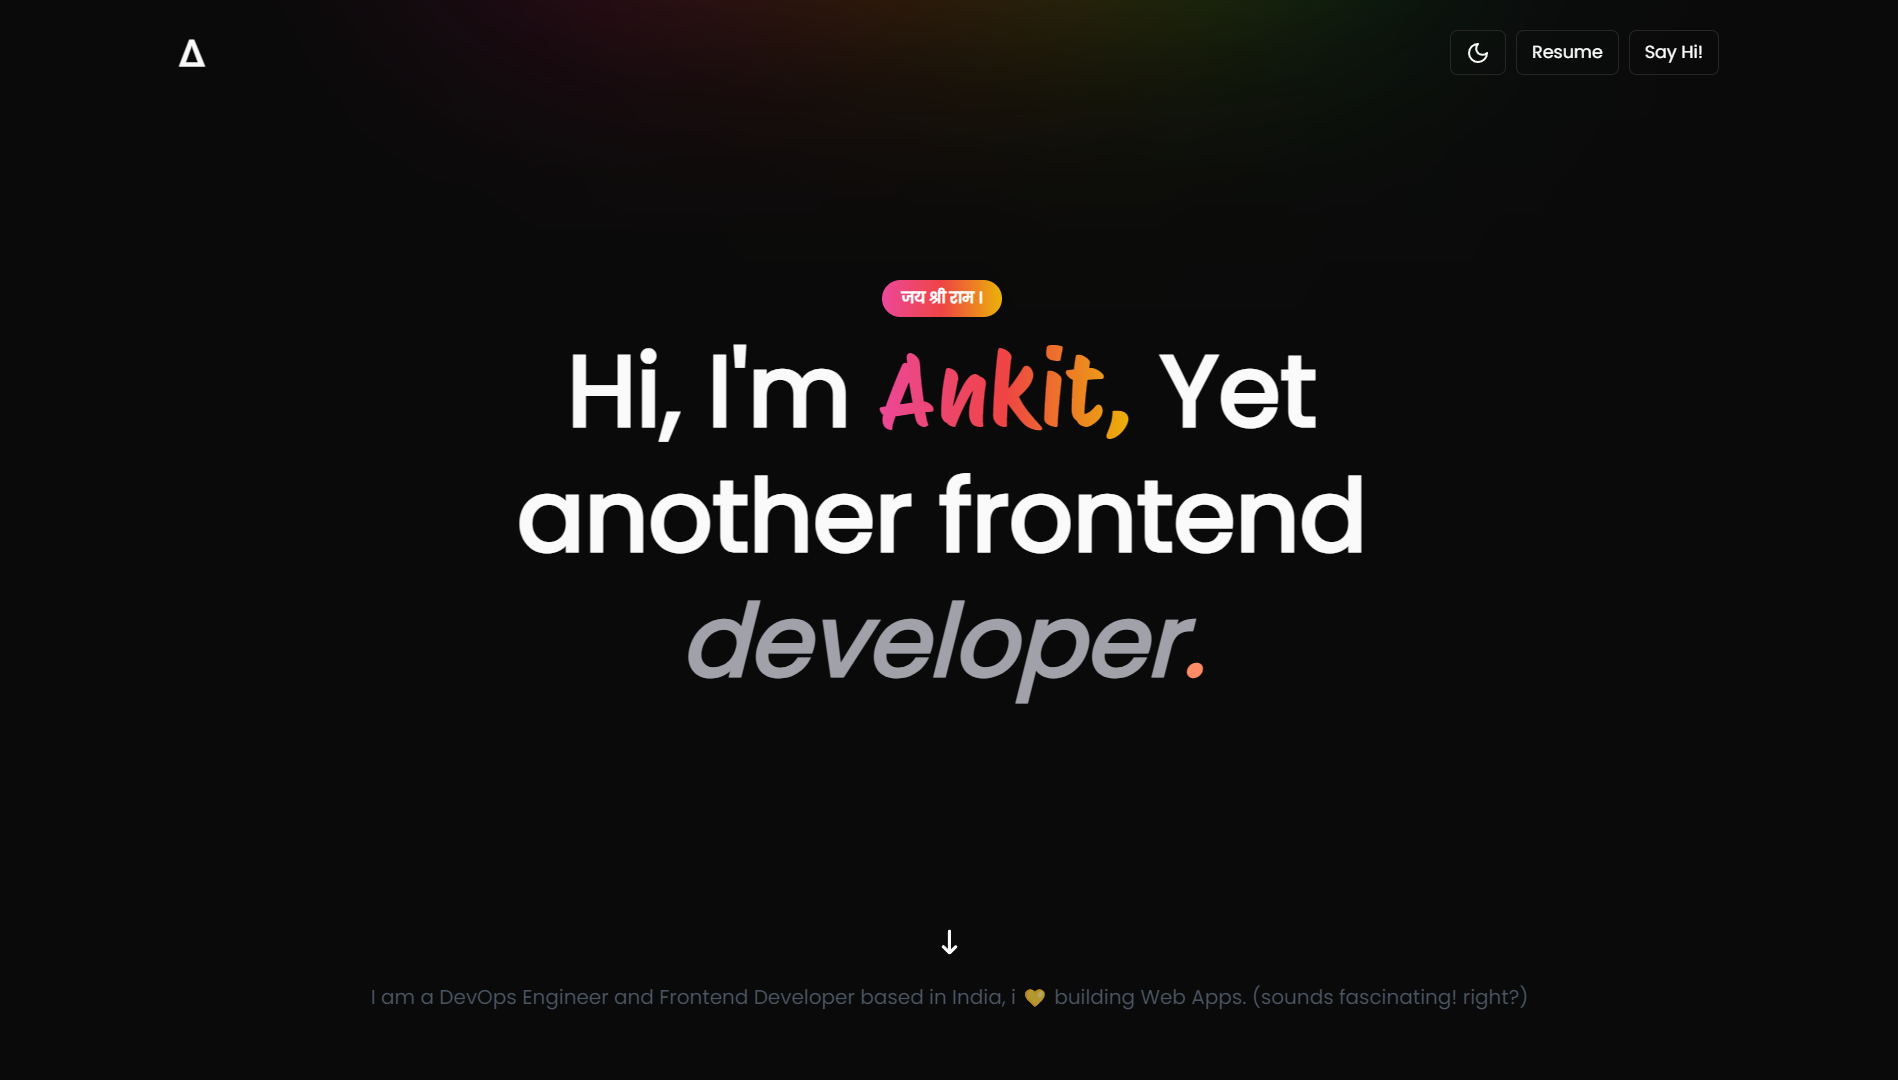
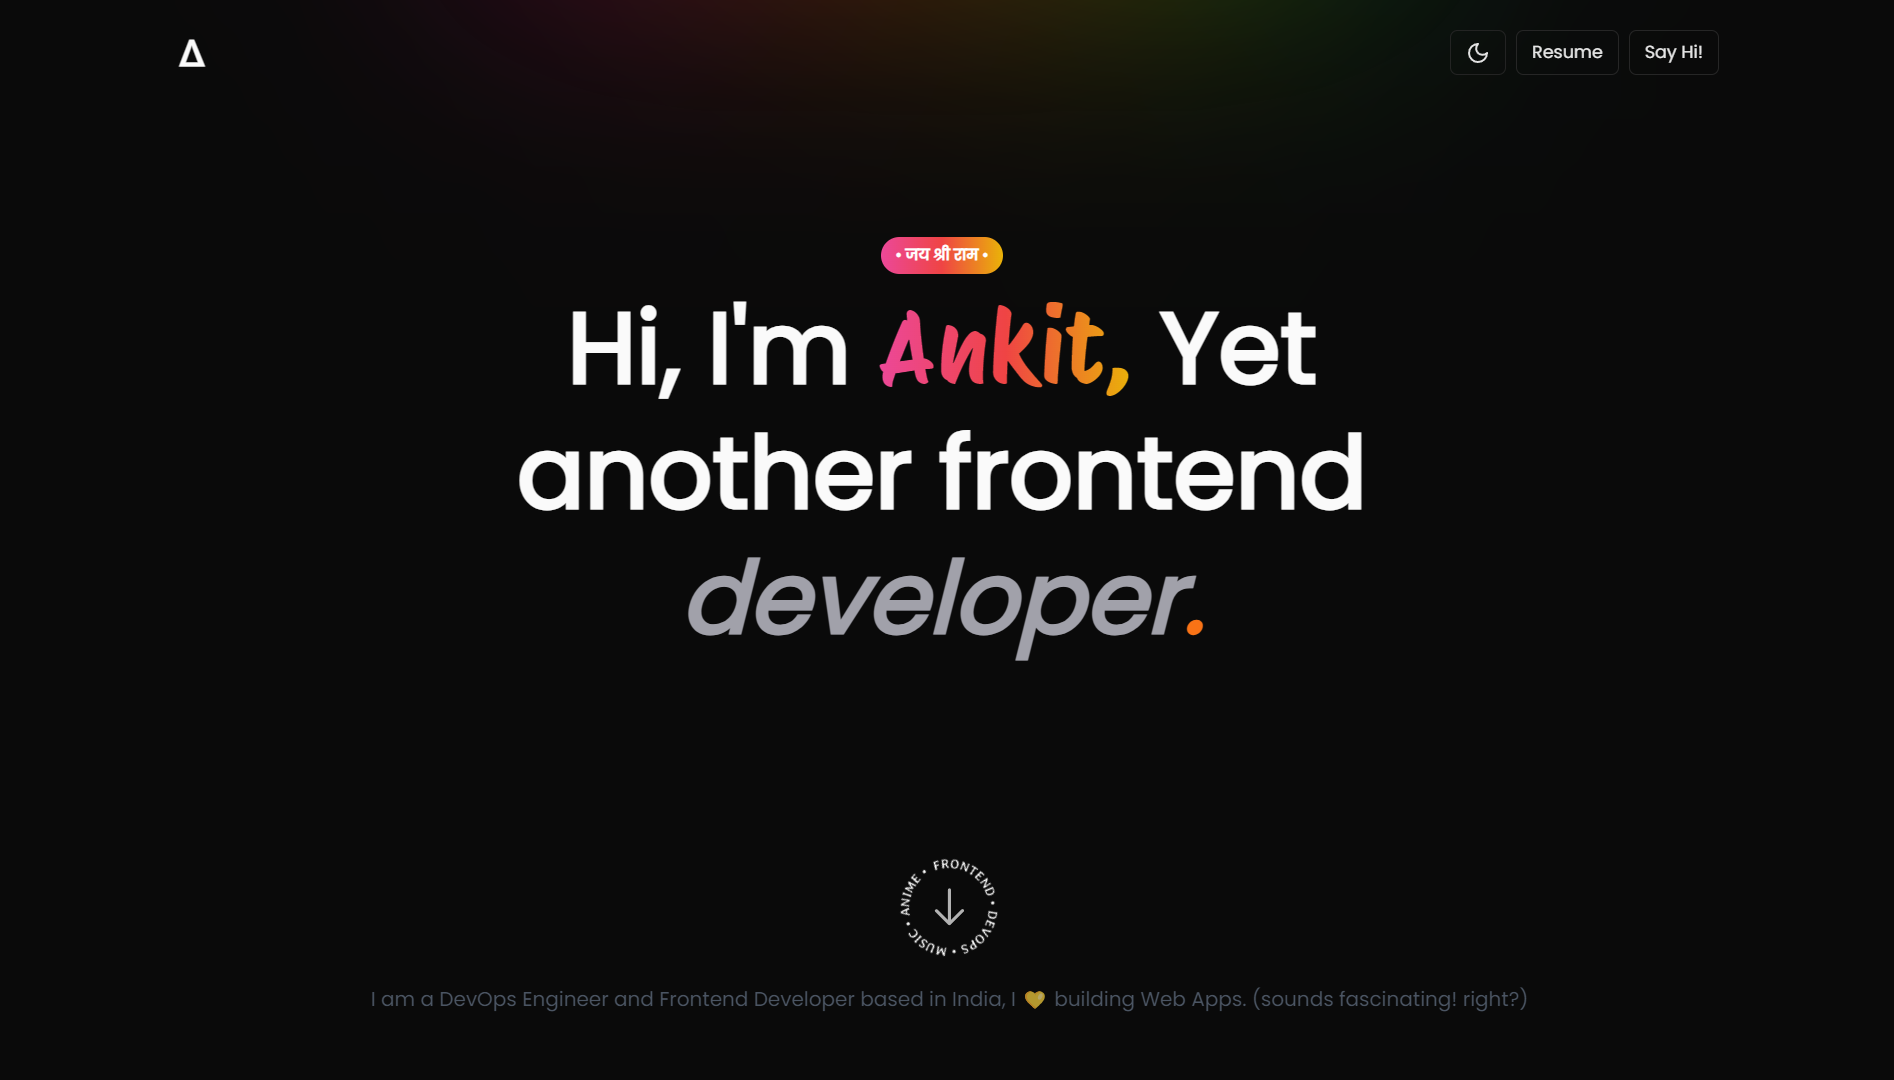
added curved text

diff --git a/app/Hero.tsx b/app/Hero.tsx
@@ -1,11 +1,12 @@
 "use client";
 import { FaArrowDownLong } from "react-icons/fa6";
 import { motion, AnimatePresence } from "framer-motion";
+import CurvedText from "./components/CurvedText";
 
 const Hero = () => {
   return (
     <>
-      <div className="h-auto my-[5rem] md:my-0 md:h-[78vh] pr-3 flex items-center justify-center ">
+      <div className="h-auto my-[5rem] md:my-0 md:h-[70vh] pr-3 flex items-center justify-center ">
         <div className="mx-[5rem] md:mx-[3rem] lg:mx-[12rem] w-full relative flex items-center justify-start sm:justify-center">
           <h1 className="text-5xl font-bold md:text-7xl xl:text-[5rem] text-left sm:text-center leading-tight md:leading-tight ">
             Hi, I&apos;m{" "}
@@ -20,7 +21,7 @@ const Hero = () => {
               className={` text-5xl italic md:text-7xl xl:text-[5rem] mb-3 sm:mb-0 text-center sm:text-left font-extrabold text-zinc-500 dark:text-zinc-400`}
             >
               developer
-              <span className="text-[#ff8c66]">.</span>
+              <span className="text-orange-500">.</span>
             </span>
           </h1>
 
@@ -30,7 +31,7 @@ const Hero = () => {
         </div>
       </div>
       <div className="flex justify-between items-center flex-col">
-        <AnimatePresence>
+        {/* <AnimatePresence>
           <motion.div
             initial={{ y: 0 }}
             animate={{ y: [0, -15, 0] }}
@@ -38,7 +39,9 @@ const Hero = () => {
           >
             <FaArrowDownLong size={20} />
           </motion.div>
-        </AnimatePresence>
+        </AnimatePresence> */}
+
+        <CurvedText />
       </div>
 
       <p className="text-[1rem] text-gray-600 text-center mt-4 ">

diff --git a/app/About.tsx b/app/About.tsx
@@ -2,7 +2,6 @@
 import React from "react";
 import { Button } from "@/components/ui/button";
 import Link from "next/link";
-import Socials from "./footer/Socials";
 import { socials } from "./data/data";
 import Image from "next/image";
 import profilepic from "@/public/profilePicture.jpg";
@@ -46,7 +45,7 @@ const About = () => {
         projects. */}
       </p>
       <div className="flex items-center mt-5 gap-3">
-        <Link href={"/timeline"}>
+        <Link href={"/timeline"} className="relative">
           <Button
             className=" dark:text-zinc-400"
             size={"sm"}
@@ -54,6 +53,10 @@ const About = () => {
           >
             More info
           </Button>
+          <span className="absolute right-[-2px] top-[-2px] flex h-2 w-2 ">
+            <span className="animate-ping absolute inline-flex h-full w-full rounded-full bg-[#F11A7B] opacity-75"></span>
+            <span className="relative inline-flex rounded-full h-2 w-2 bg-[#F11A7B]"></span>
+          </span>
         </Link>
 
         <div className="flex gap-2 justify-center items-center">

diff --git a/app/components/CurvedText.tsx b/app/components/CurvedText.tsx
@@ -1,0 +1,21 @@
+import curvedtext from "@/public/curved-text.png";
+import Image from "next/image";
+import { GoArrowDown } from "react-icons/go";
+import styles from "../skills/skills.module.css";
+
+const CurvedText = () => {
+  return (
+    <div className="flex justify-center flex-col items-center relative">
+      <Image
+        className={`${styles.rotateInfinite} dark:invert invert-0`}
+        width={90}
+        height={100}
+        src={curvedtext}
+        alt="about"
+      />
+      <GoArrowDown className="absolute stroke-[0] opacity-70" size={40} />
+    </div>
+  );
+};
+
+export default CurvedText;

diff --git a/app/skills/Skill.tsx b/app/skills/Skill.tsx
@@ -20,9 +20,7 @@ const Skill = ({ skill: s }: Props) => {
       >
         <img
           className={`rounded-full ${
-            s.name === "React" || s.name === "Kubernetes"
-              ? `${styles.rotateInfinite}`
-              : ""
+            s.name === "React" ? `${styles.rotateInfinite}` : ""
           }`}
           alt={s.name}
           src={s.url}

diff --git a/app/page.tsx b/app/page.tsx
@@ -20,7 +20,7 @@ export default function Home() {
       <div className="my-[3rem] mb-[6.25rem] sm:mt-[5rem] relative">
         <InfiniteMarquee
           direction="left"
-          className="-rotate-6 sm:-rotate-3 dark:bg-zinc-950 "
+          className="-rotate-6 sm:rotate-0 dark:bg-zinc-950 "
         />
         <InfiniteMarquee
           direction="right"
